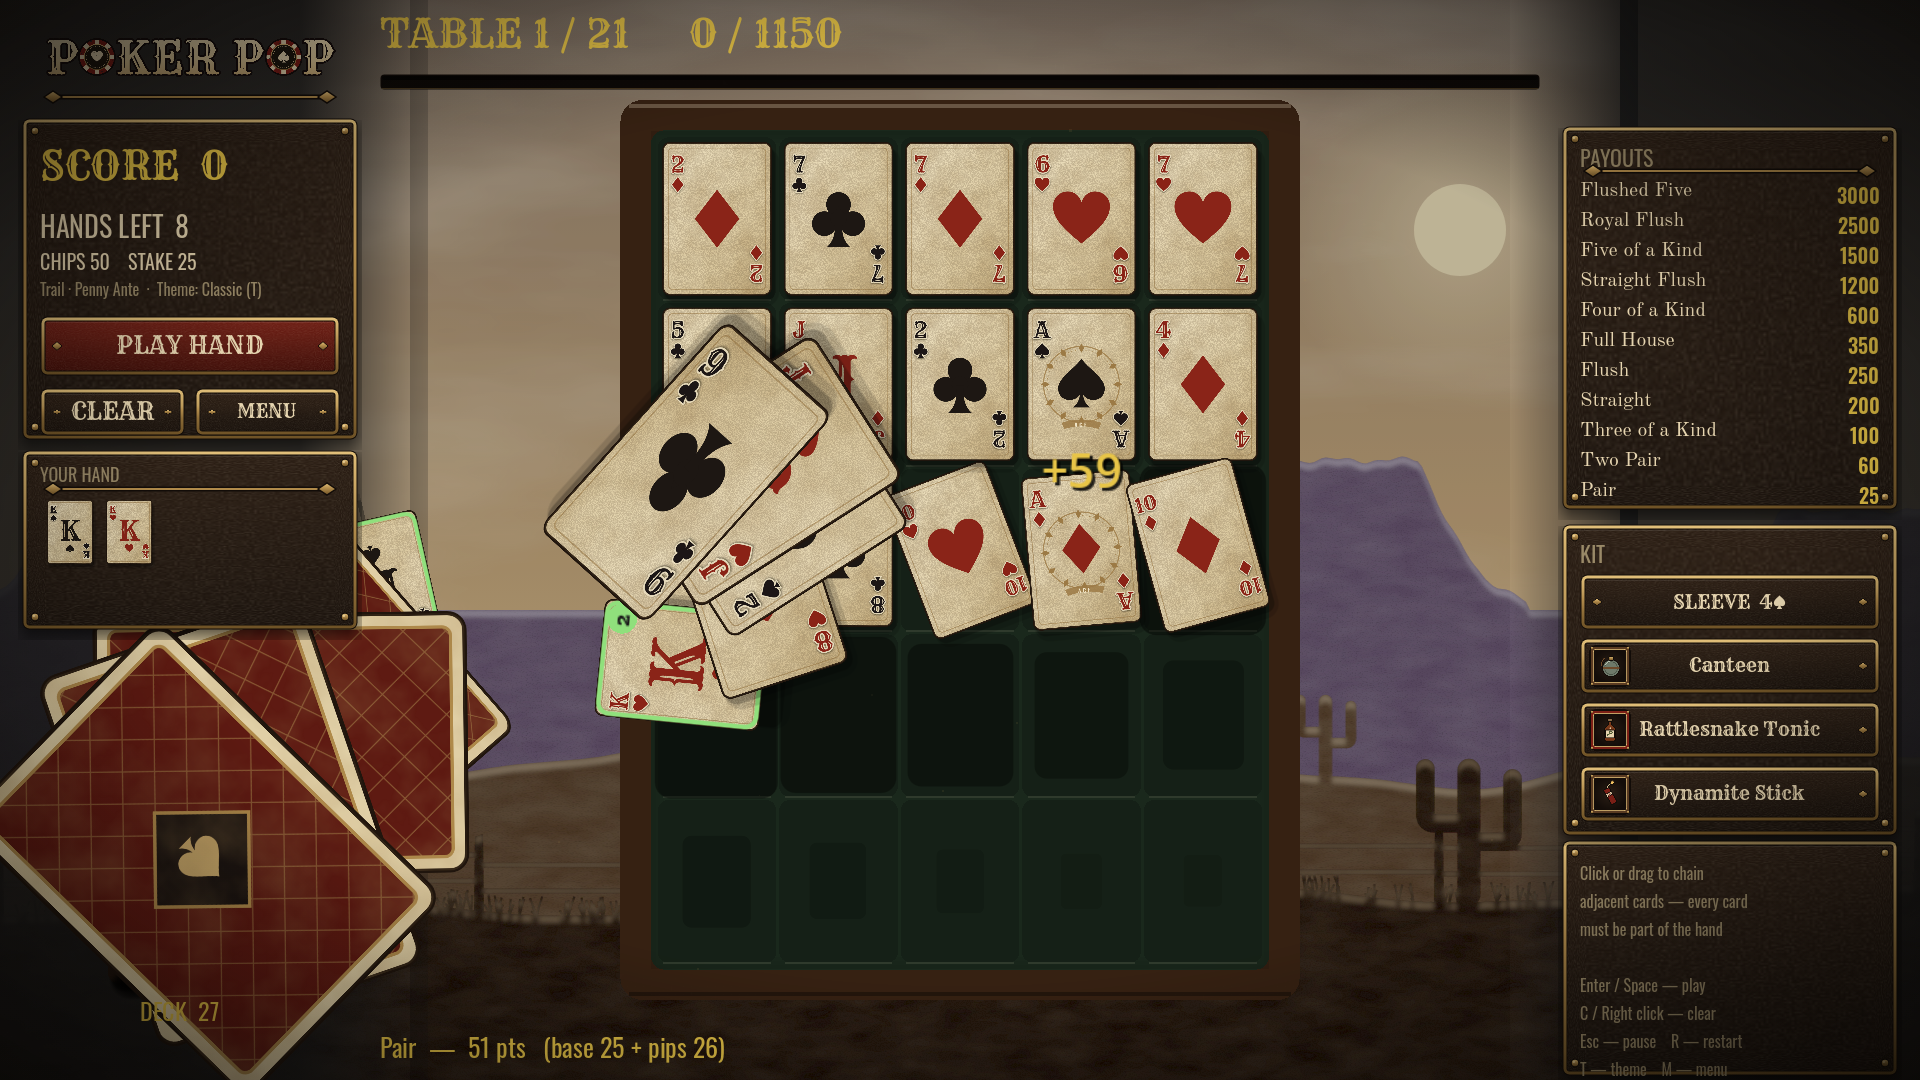
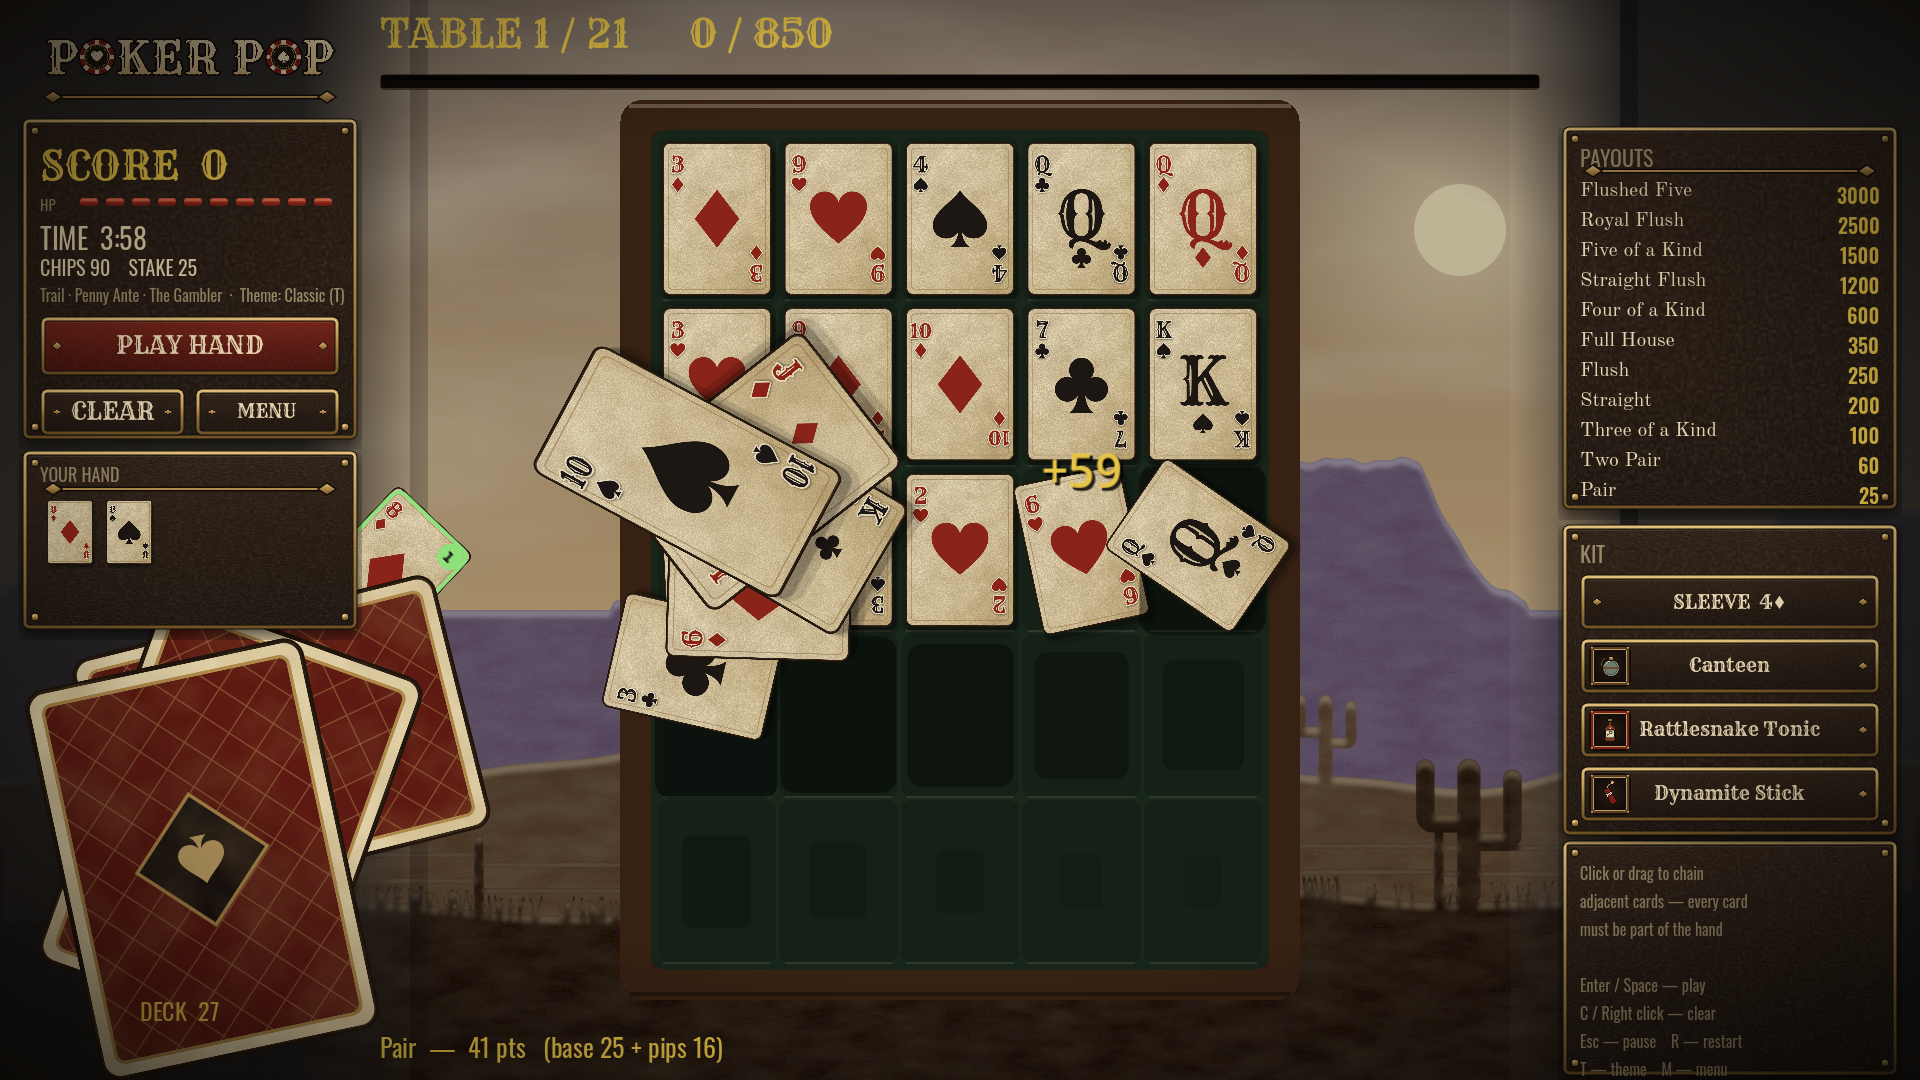
The trail draws blood now, and the campfire patches you up
The rider carries 10 HP for the whole run, worn as red segment pips
under the score - the same language as the boss bar. Grit is
retired: outlaw lead hits the rider straight. A flame card burning
all the way down sears 1 HP; dynamite going off blasts 2 per bomb
and is no longer a table loss - the bomb takes itself off the board
and play goes on; losing a table leaves a 2 HP mark on top of the
stake and the scar (Second Wind spares both). Zero HP is LAID LOW:
run over, save cleared, the house keeps the chips. The pocket watch
snapshots HP with the hand, so a rewind gives the blood back.

THE CAMPFIRE glows once per region between the two shops, posted on
the tarot wall with a code-drawn fire on kit parchment. One comfort
per stop: REST (+5 HP), TEND A CARD (a plain deck card takes a
random enhancement by firelight), or CAST ONE OFF (burn any deck
card, free) - then the fire dies down and the trail calls.

diff --git a/TRAIL_MODE.md b/TRAIL_MODE.md
@@ -651,3 +651,26 @@ Kit art: assets/art/playable (select cards + HUD portraits).
 Mobile/tablet layout kit delivered alongside and TABLED for later —
 lives in Downloads\PokerPop_Mobile_Layouts (spec JSON + mocks), not
 yet in the project.
+
+## Rider HP and campfires (Oct 2026)
+
+The rider carries 10 HP for the whole run (red segment pips under
+SCORE, same visual language as the boss bar; saved with the run).
+GRIT is retired. What hurts:
+
+- A flame card burning ALL THE WAY DOWN: 1 HP per burnt-out card.
+- Dynamite detonating: 2 HP per bomb - and the blast is no longer a
+  table loss: the bomb takes itself off the board and play goes on.
+- Outlaw lead: every bullet caught or weak-hand free shot, 1 HP.
+- Losing a table: 2 HP on top of the stake and the curse (Second
+  Wind spares both on its one forgiveness).
+
+Zero HP = LAID LOW: the run ends on the spot, save cleared, the
+house keeps the chips. The Doctor's pocket watch snapshots HP with
+the hand, so a rewound hand gives the blood back.
+
+THE CAMPFIRE: a rest stop once per region (room 4, between the two
+shops), offered on the tarot wall as a poster with a code-drawn
+fire. One comfort per stop: REST (+5 HP), TEND A CARD (a plain deck
+card takes a random enhancement), or CAST ONE OFF (burn any deck
+card, free). Then the trail calls.
